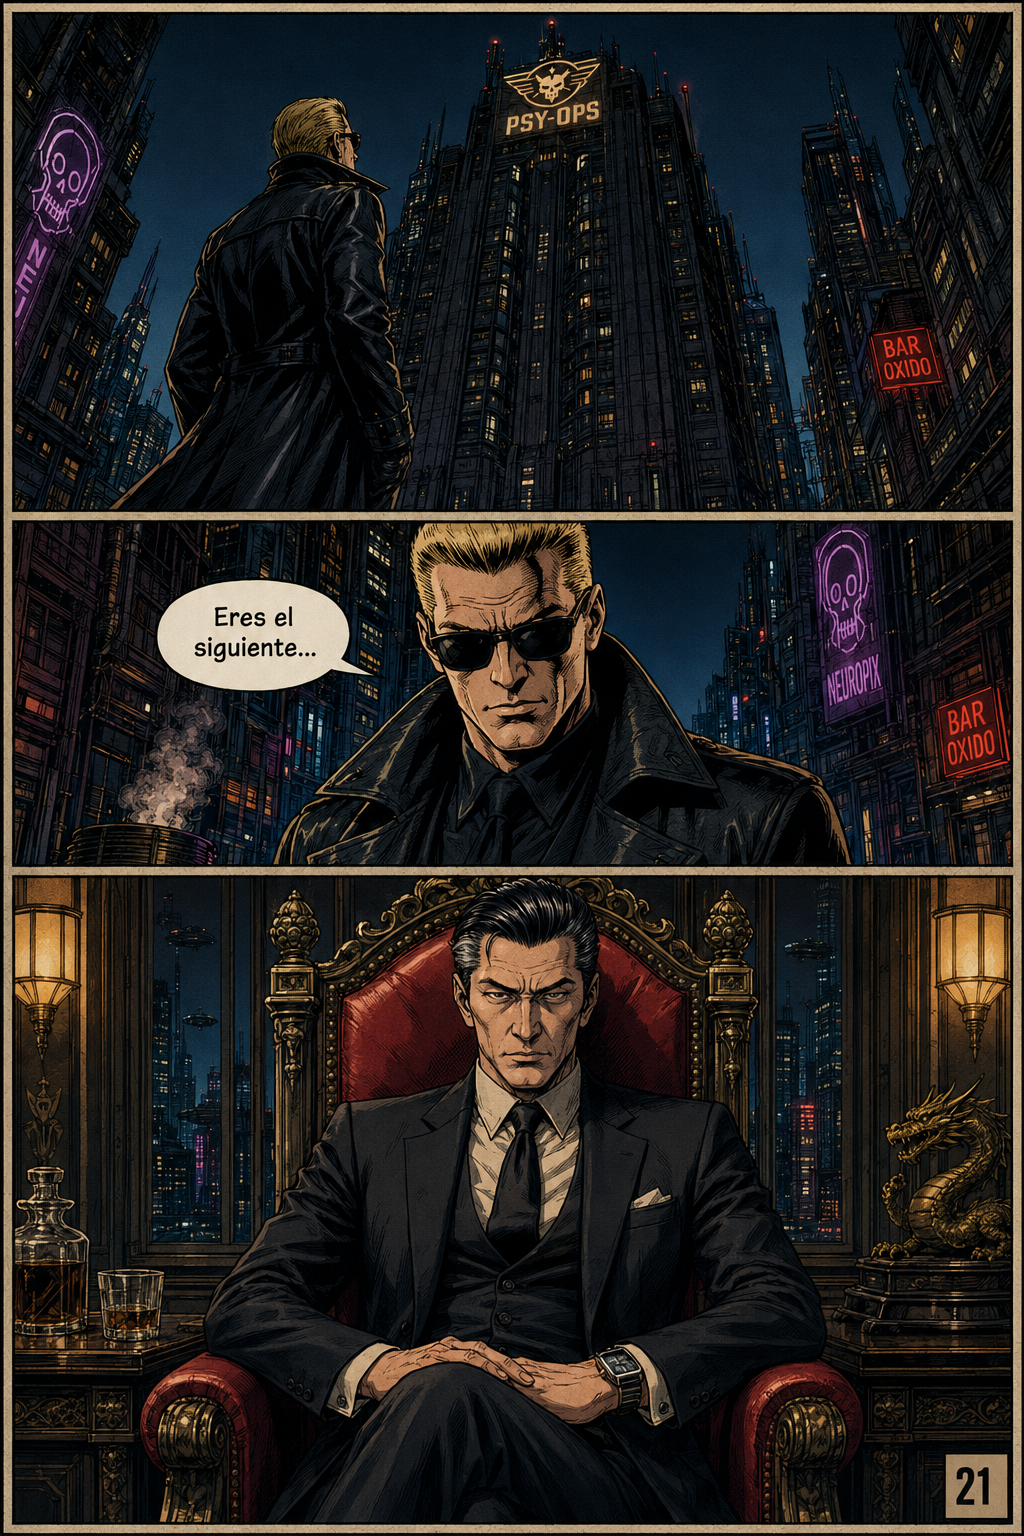
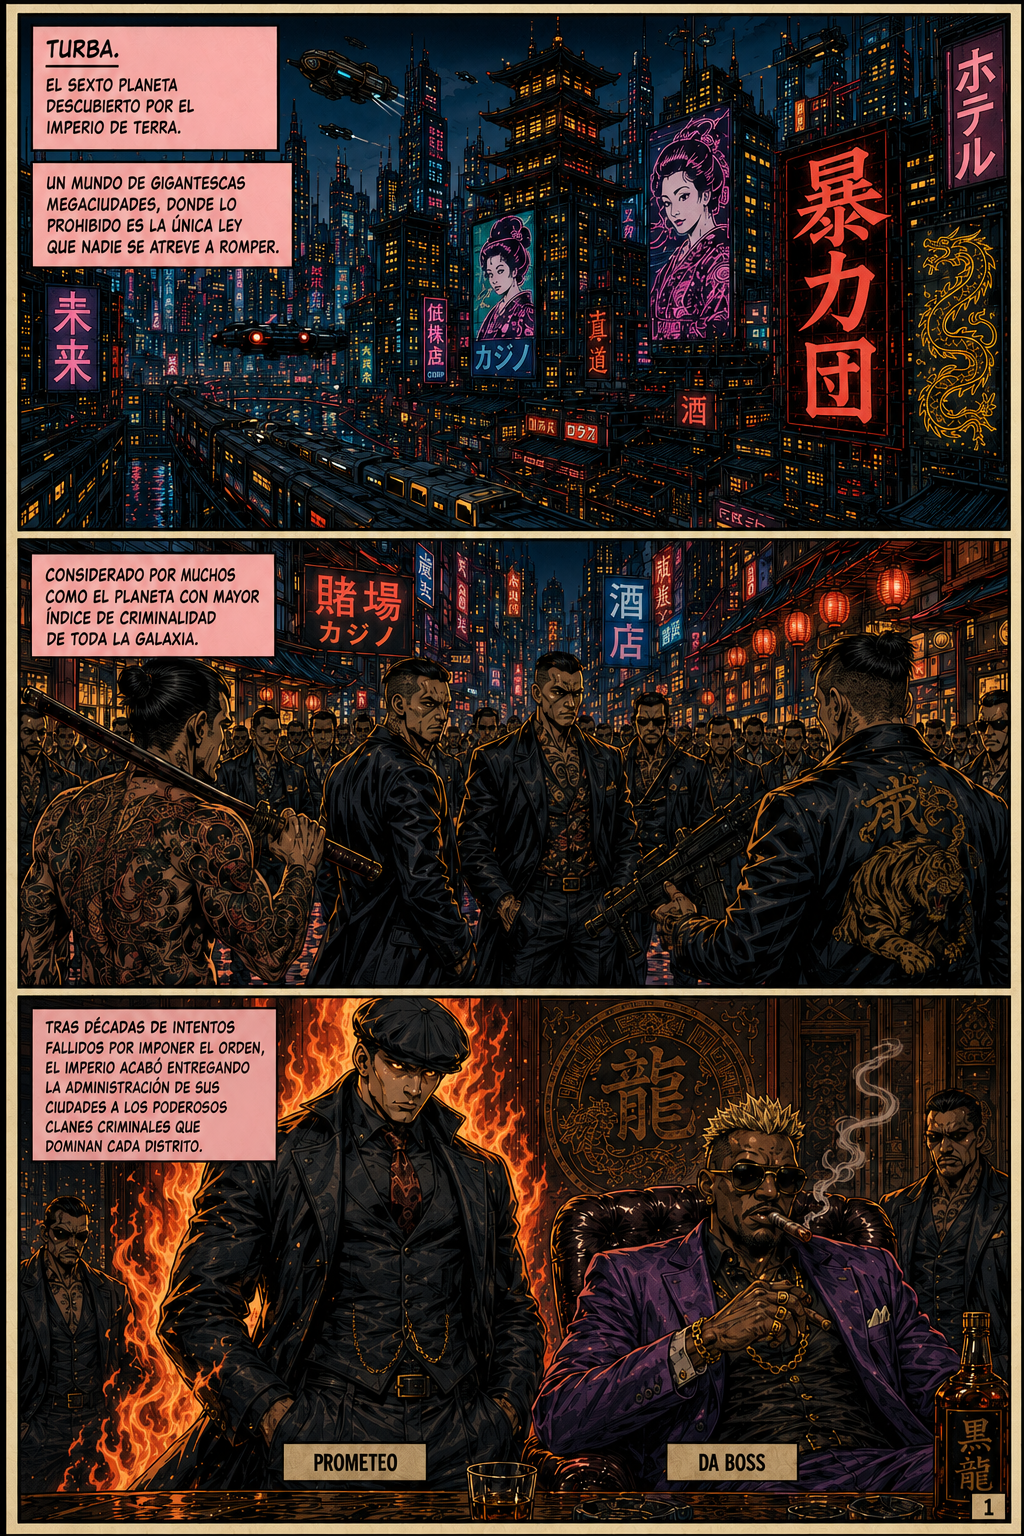
capitulo2_initial

diff --git a/js/chapters.js b/js/chapters.js
@@ -65,13 +65,29 @@ const COMIC = {
     },
     {
       id: "cap-02",
-      title: "Capítulo 2 — Continuará...",
+      title: "Capítulo 2 — Liberando al Dragón",
       pages: [
         "pages/cap-02/01.png",
-        "pages/cap-02/02.svg",
-        "pages/cap-02/03.svg",
-        "pages/cap-02/04.svg",
-        "pages/cap-02/05.svg"
+		"pages/cap-02/02.png",
+		"pages/cap-02/03.png",
+		"pages/cap-02/04.png",
+        "pages/cap-02/05.png",
+		"pages/cap-02/06.png",
+		"pages/cap-02/07.png",
+		"pages/cap-02/08.png",
+		"pages/cap-02/09.png",
+		"pages/cap-02/10.png",
+		"pages/cap-02/11.png",
+		"pages/cap-02/12.png",
+		"pages/cap-02/13.png",
+		"pages/cap-02/14.png",
+		"pages/cap-02/15.png",
+		"pages/cap-02/16.png",
+		"pages/cap-02/17.png",
+        "pages/cap-02/18.png",
+		"pages/cap-02/19.png",
+        "pages/cap-02/20.png",		
+        "pages/cap-02/21.png"
       ]
     }
   ]